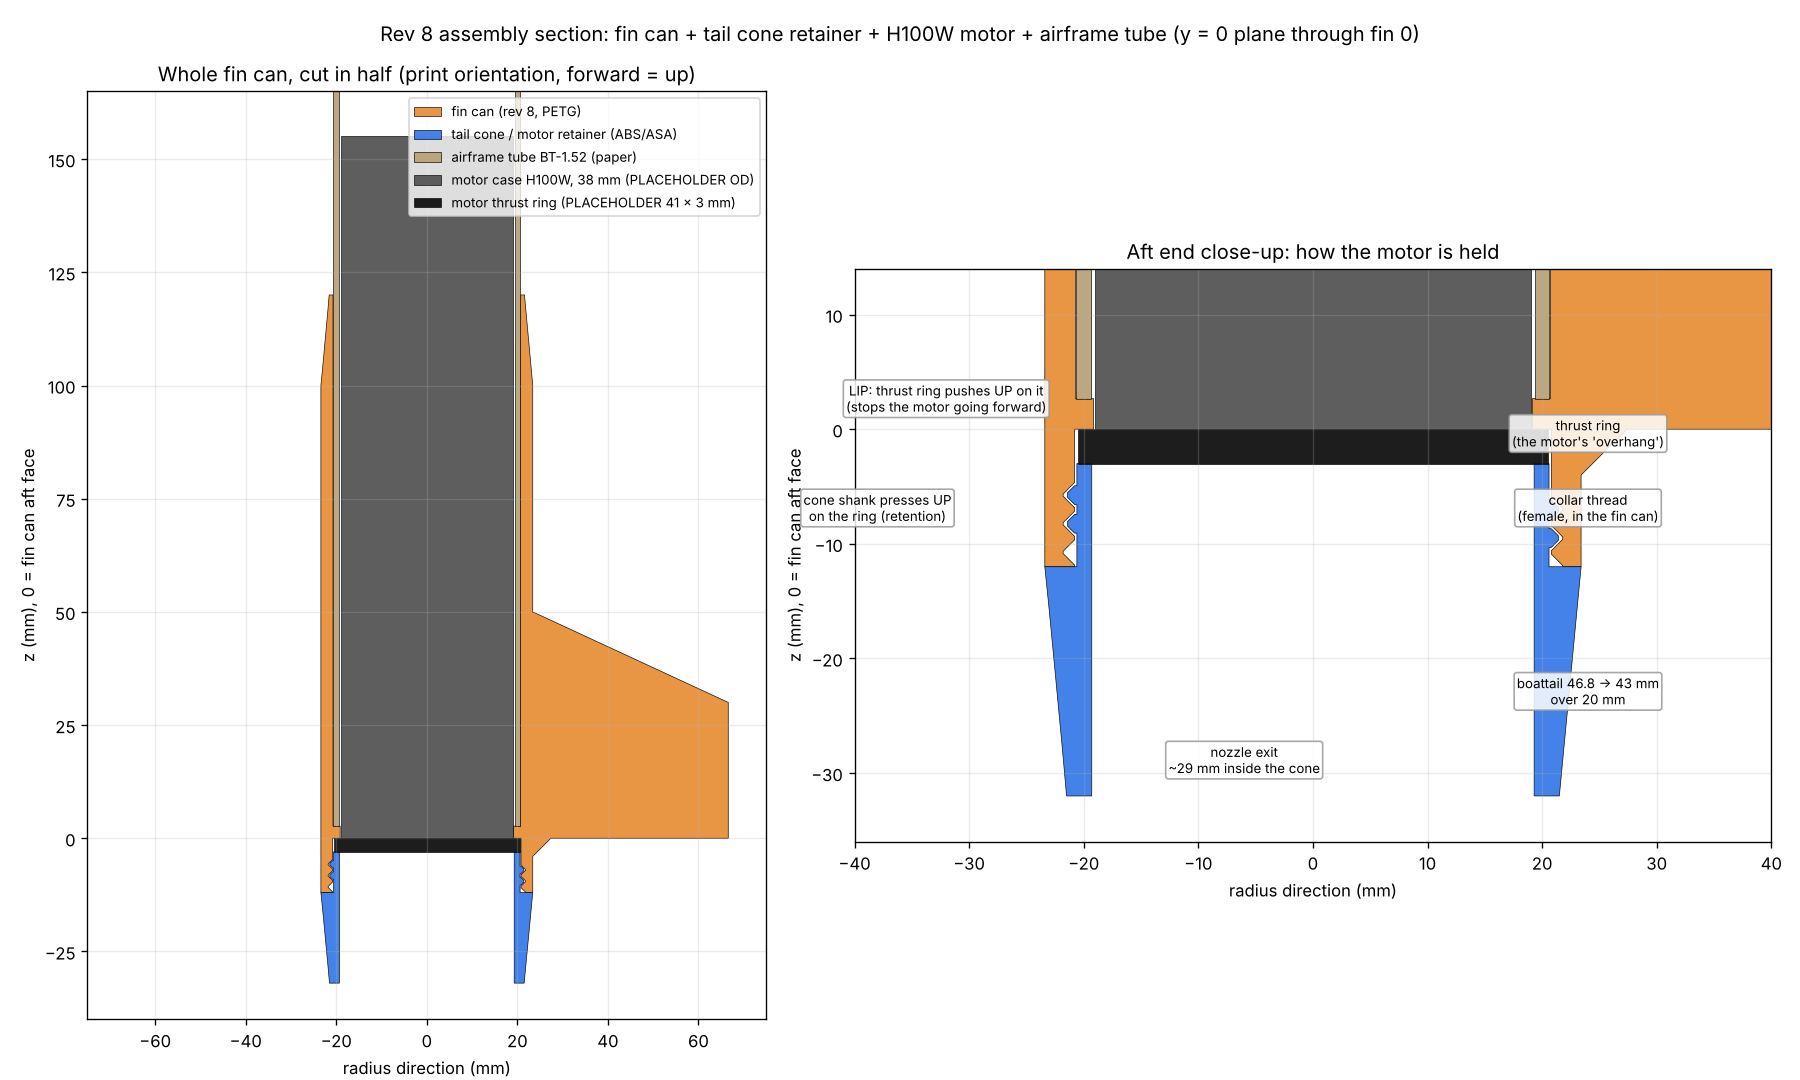
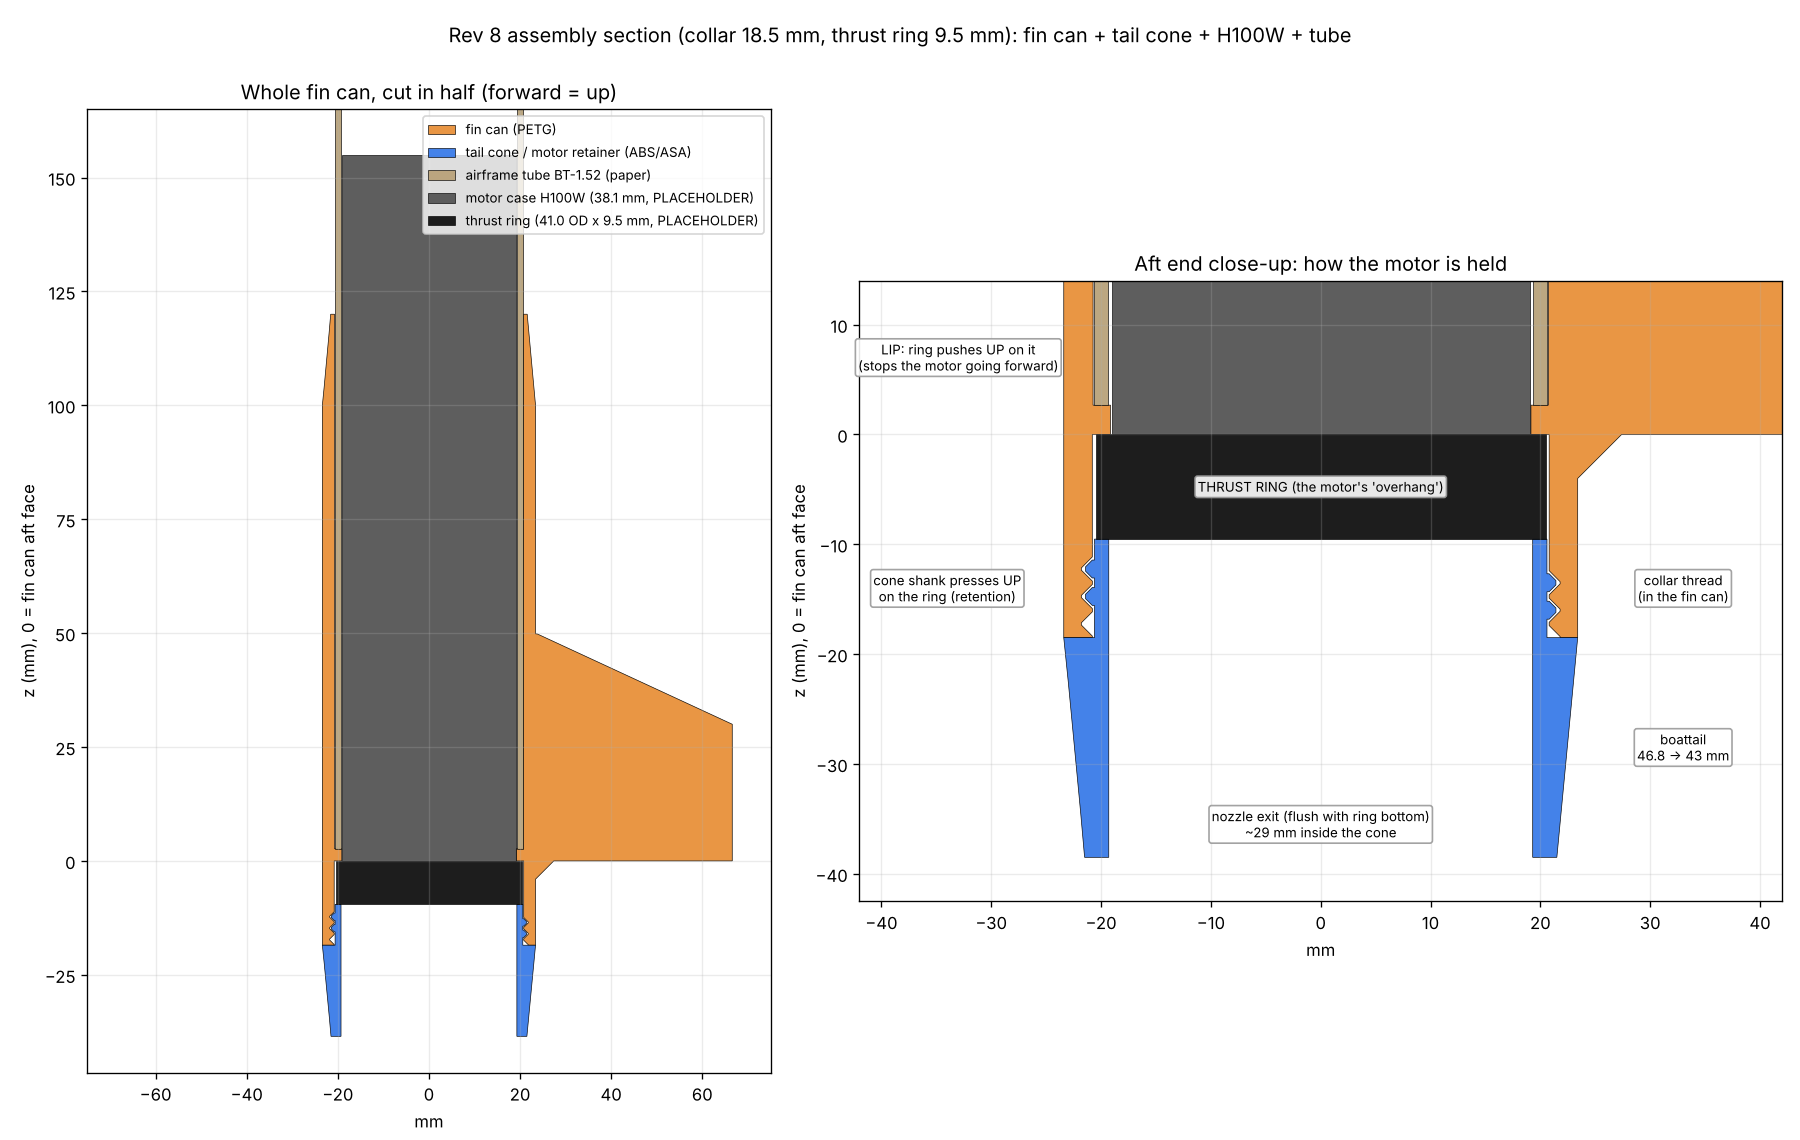
Rev 8: collar 18.5 mm for a 9.5 mm (3/8 in, forum estimate) DMS thrust ring; assembly section tool
Claude-Session: https://claude.ai/code/session_01JbHocCdFPmDsRrA6bRt32a

diff --git a/tools/assembly_section.py b/tools/assembly_section.py
@@ -1,0 +1,68 @@
+"""Half-section drawing of the fin can + tail cone + motor + tube assembly (y = 0 plane through fin 0).
+
+  .venv/bin/python tools/assembly_section.py --rev 8      (after make.py fin_can_md --rev 8)
+Writes out/fin_can_md/rev<N>/fin_can_md_rev<N>_assembly_section.png. Dimensions come from design.yaml via
+parts/fin_can_md.params(); mating solids are the STLs make.py wrote to out/fin_can_md/rev<N>/mates/.
+"""
+import argparse
+import sys
+from pathlib import Path
+
+import matplotlib
+matplotlib.use("Agg")
+import matplotlib.pyplot as plt  # noqa: E402
+import numpy as np  # noqa: E402
+import trimesh  # noqa: E402
+from matplotlib.patches import Polygon  # noqa: E402
+
+ROOT = Path(__file__).resolve().parent.parent
+sys.path.insert(0, str(ROOT))
+from parts import fin_can_md as F  # noqa: E402
+
+ap = argparse.ArgumentParser()
+ap.add_argument("--rev", type=int, required=True)
+a = ap.parse_args()
+p = F.params()
+Lc, ring, Lb = p.get("collar_length_mm", 0), p["thrust_ring_thk_mm"], p.get("boattail_length_mm", 0)
+d = ROOT / "out" / "fin_can_md" / f"rev{a.rev}"
+parts = [("fin can (PETG)", d / f"fin_can_md_rev{a.rev}.stl", "#e8913a"),
+         ("tail cone / motor retainer (ABS/ASA)", d / "mates" / "tail_cone.stl", "#3a7be8"),
+         ("airframe tube BT-1.52 (paper)", d / "mates" / "tube_wall.stl", "#b9a27a"),
+         (f"motor case H100W ({p['motor_case_od_mm']} mm, PLACEHOLDER)", d / "mates" / "motor_case.stl", "#555555"),
+         (f"thrust ring ({p['thrust_ring_od_mm']} OD x {ring:.1f} mm, PLACEHOLDER)", d / "mates" / "motor_thrust_ring.stl",
+          "#111111")]
+
+
+def section(path):
+    if not path.exists():
+        return []
+    s = trimesh.load(path, force="mesh").section(plane_origin=[0, 0, 0], plane_normal=[0, 1, 0])
+    pl, _ = s.to_2D(to_2D=np.array([[1, 0, 0, 0], [0, 0, 1, 0], [0, -1, 0, 0], [0, 0, 0, 1]]))
+    return [(np.array(q.exterior.coords), [np.array(i.coords) for i in q.interiors]) for q in pl.polygons_full]
+
+
+fig, axs = plt.subplots(1, 2, figsize=(15, 9.5), gridspec_kw={"width_ratios": [1, 1.35]})
+for ax, (xl, zl, title) in zip(axs, (((-75, 75), (-Lc - Lb - 8, 165), "Whole fin can, cut in half (forward = up)"),
+                                     ((-42, 42), (-Lc - Lb - 4, 14), "Aft end close-up: how the motor is held"))):
+    for lab, path, col in parts:
+        for k, (e, hs) in enumerate(section(path)):
+            ax.add_patch(Polygon(e, closed=True, fc=col, ec="k", lw=0.4, alpha=0.95, label=lab if k == 0 else None))
+            for h in hs:
+                ax.add_patch(Polygon(h, closed=True, fc="white", ec="k", lw=0.3))
+    ax.set_xlim(*xl); ax.set_ylim(*zl); ax.set_aspect("equal"); ax.grid(alpha=0.25)
+    ax.set_xlabel("mm"); ax.set_ylabel("z (mm), 0 = fin can aft face"); ax.set_title(title)
+ax = axs[1]
+for x, z, s in [(-33, 7, "LIP: ring pushes UP on it\n(stops the motor going forward)"),
+                (0, -ring / 2, "THRUST RING (the motor's 'overhang')"),
+                (33, -(ring + Lc) / 2, "collar thread\n(in the fin can)"),
+                (-34, -(ring + Lc) / 2, "cone shank presses UP\non the ring (retention)"),
+                (33, -Lc - Lb / 2, "boattail\n46.8 → 43 mm"),
+                (0, -Lc - Lb + 3, f"nozzle exit (flush with ring bottom)\n~{Lc + Lb - ring:.0f} mm inside the cone")]:
+    ax.annotate(s, (x, z), fontsize=8, ha="center", va="center",
+                bbox=dict(boxstyle="round,pad=0.2", fc="white", ec="0.6", alpha=0.9))
+axs[0].legend(loc="upper right", fontsize=8)
+fig.suptitle(f"Rev {a.rev} assembly section (collar {Lc} mm, thrust ring {ring:.1f} mm): fin can + tail cone + H100W + tube")
+fig.tight_layout()
+out = d / f"fin_can_md_rev{a.rev}_assembly_section.png"
+fig.savefig(out, dpi=120)
+print(out)

diff --git a/out/fin_can_md/rev8/fin_can_md_rev8_spec.md b/out/fin_can_md/rev8/fin_can_md_rev8_spec.md
@@ -6,19 +6,19 @@
 ## Verify checks
 | # | Check | Result | Detail |
 |---|---|---|---|
-| 1 | mesh integrity | PASS | watertight=True, winding_consistent=True, volume=93870.0 mm3, bodies=1 |
-| 2 | mass | FAIL | target 90.0 g (±5 %); reachable 95.4 g (0 %) – 119.2 g (100 %); infill to hit target = -22.5 % |
+| 1 | mesh integrity | PASS | watertight=True, winding_consistent=True, volume=96215.1 mm3, bodies=1 |
+| 2 | mass | FAIL | target 90.0 g (±5 %); reachable 98.4 g (0 %) – 122.3 g (100 %); infill to hit target = -35.3 % |
 | 3 | mating interference | PASS | tube_wall: 0.000 mm3, motor_case: 0.000 mm3, motor_thrust_ring: 0.000 mm3, tail_cone: 0.000 mm3 |
 | 4 | renders | PASS | written: fin_can_md_rev8_iso.png, fin_can_md_rev8_front.png, fin_can_md_rev8_section.png — VISUAL REVIEW REQUIRED |
-| 5 | build volume | PASS | extents X 102.6 / Y 118.4 / Z 132.0 mm vs limit 256/256/256 |
+| 5 | build volume | PASS | extents X 102.6 / Y 118.4 / Z 138.5 mm vs limit 256/256/256 |
 
 ## Mass (walls + infill model)
 - Wall band 2.67 mm · top 5 / bottom 3 layers of 0.2 mm
-- Solid (walls/skins) 75.09 cm³ · infill region 18.77 cm³ · mesh volume 93.87 cm³
-- Mass at 0 % / 100 % infill: 95.4 g / 119.2 g · target 90.0 g · infill needed: -22.5 %
+- Solid (walls/skins) 77.50 cm³ · infill region 18.78 cm³ · mesh volume 96.22 cm³
+- Mass at 0 % / 100 % infill: 98.4 g / 122.3 g · target 90.0 g · infill needed: -35.3 %
 
 ## Print orientation
-Aft face (lip) DOWN on the bed, axis vertical. No supports: lip and sleeve are vertical walls, fins shrink going up, the forward fairing narrows going up.
+Aft face (lip) DOWN on the bed, axis vertical. No supports: lip and sleeve are vertical walls, fins shrink going up, the forward fairing narrows going up. REV 8 (tail_cone): the collar is on the bed and the fins' blunt trailing edges (1-8 mm wide) hang 12 mm above it: add small supports under the three fin TEs only (paint-on / tree, build plate only).
 
 ## Loads vs. layers
 - Motor thrust: the thrust ring pushes UP (+Z) on the lip's underside, and the lip pushes the tube end forward. The layers are pressed together (compression across layers). Good direction.
@@ -42,7 +42,7 @@ Aft face (lip) DOWN on the bed, axis vertical. No supports: lip and sleeve are v
 | `lip_bore_d_mm` | 38.28 | derived/shop |  |
 | `motor_length_mm` | 155 | CITED | motor agent 2026-11-21 (38 x 155 mm; ThrustCurve snippet said 153) — measure |
 | `thrust_ring_od_mm` | 41 | PLACEHOLDER | not published yet (motor agent researching); must be > lip bore to bear |
-| `thrust_ring_thk_mm` | 3 | PLACEHOLDER | not published; mating check only |
+| `thrust_ring_thk_mm` | 9.525 | PLACEHOLDER | 3/8 in: Rocketry Forum estimate for 38 mm DMS thrust rings (no official AeroTech drawing found, 2026-11-22); owner photo agrees (long black aft band). Nozzle reported flush with the ring bottom. MEASURE |
 | `fin_count` | 3 | derived/shop |  |
 | `root_chord_mm` | 50 | derived/shop |  |
 | `tip_chord_mm` | 30 | derived/shop |  |
@@ -63,7 +63,7 @@ Aft face (lip) DOWN on the bed, axis vertical. No supports: lip and sleeve are v
 | `boss_fairing_length_mm` | 20 | PROPOSED |  |
 | `target_mass_g` | 90 | OWNER | owner 2026-11-21: Bambu Studio slicer 90 g for REV 7 at 25 % GYROID infill (rev 6 was 84.83 g; rev 5 80 g) |
 | `tail_cone` | True | OWNER | rev 8: threaded collar behind the aft face + separate tail cone (parts/tail_cone.py) |
-| `collar_length_mm` | 12 | PROPOSED | rev 8: threaded collar below the aft face; holds the 3 mm thrust ring + ~6.5 mm of thread |
+| `collar_length_mm` | 18.5 | PROPOSED | rev 8 (updated 2026-11-22): 9.5 mm thrust ring + 6.5 mm thread + 2.5 mm run-out. Was 12 (3 mm ring assumption) -> no thread left with a 9.5 mm ring |
 | `collar_bore_d_mm` | 41.6 | PROPOSED | rev 8: clears the 41.0 mm thrust ring (PLACEHOLDER) by 0.3/side; thread minor dia; wall behind the groove 1.6 mm |
 | `boattail_length_mm` | 20 | OWNER | owner 2026-11-22: 20 mm taper aft of the collar |
 | `boattail_end_od_mm` | 43 | PROPOSED | 46.8 -> 43.0 over 20 mm = 5.4 deg half-angle (attached-flow boattail range 5-10 deg) |
@@ -77,7 +77,7 @@ Aft face (lip) DOWN on the bed, axis vertical. No supports: lip and sleeve are v
 ## Not print-ready until resolved
 - `motor_case_od_mm`: 1.500 in nominal from AeroTech I500T (different 38 mm DMS) page, via motor agent; MEASURE the H100W
 - `thrust_ring_od_mm`: not published yet (motor agent researching); must be > lip bore to bear
-- `thrust_ring_thk_mm`: not published; mating check only
+- `thrust_ring_thk_mm`: 3/8 in: Rocketry Forum estimate for 38 mm DMS thrust rings (no official AeroTech drawing found, 2026-11-22); owner photo agrees (long black aft band). Nozzle reported flush with the ring bottom. MEASURE
 - `tube_od_mm`: BT-1.52 OD nominal; MEASURE — sets the sleeve bore
 
 ## Extra outputs

diff --git a/out/tail_cone/rev8/tail_cone_rev8_spec.md b/out/tail_cone/rev8/tail_cone_rev8_spec.md
@@ -6,7 +6,7 @@
 ## Verify checks
 | # | Check | Result | Detail |
 |---|---|---|---|
-| 1 | mesh integrity | PASS | watertight=True, winding_consistent=True, volume=9914.6 mm3, bodies=1 |
+| 1 | mesh integrity | PASS | watertight=True, winding_consistent=True, volume=9909.2 mm3, bodies=1 |
 | 2 | mass | FAIL | no target mass declared |
 | 3 | mating interference | PASS | tube_wall: 0.000 mm3, motor_case: 0.000 mm3, motor_thrust_ring: 0.000 mm3, fin_can: 0.000 mm3 |
 | 4 | renders | PASS | written: tail_cone_rev8_iso.png, tail_cone_rev8_front.png, tail_cone_rev8_section.png — VISUAL REVIEW REQUIRED |
@@ -41,7 +41,7 @@ Narrow aft end on the bed, shank up. No supports: the outer taper leans 5.4 deg 
 | `lip_bore_d_mm` | 38.28 | derived/shop |  |
 | `motor_length_mm` | 155 | CITED | motor agent 2026-11-21 (38 x 155 mm; ThrustCurve snippet said 153) — measure |
 | `thrust_ring_od_mm` | 41 | PLACEHOLDER | not published yet (motor agent researching); must be > lip bore to bear |
-| `thrust_ring_thk_mm` | 3 | PLACEHOLDER | not published; mating check only |
+| `thrust_ring_thk_mm` | 9.525 | PLACEHOLDER | 3/8 in: Rocketry Forum estimate for 38 mm DMS thrust rings (no official AeroTech drawing found, 2026-11-22); owner photo agrees (long black aft band). Nozzle reported flush with the ring bottom. MEASURE |
 | `fin_count` | 3 | derived/shop |  |
 | `root_chord_mm` | 50 | derived/shop |  |
 | `tip_chord_mm` | 30 | derived/shop |  |
@@ -62,7 +62,7 @@ Narrow aft end on the bed, shank up. No supports: the outer taper leans 5.4 deg 
 | `boss_fairing_length_mm` | 20 | PROPOSED |  |
 | `target_mass_g` | None | OWNER | owner 2026-11-21: Bambu Studio slicer 90 g for REV 7 at 25 % GYROID infill (rev 6 was 84.83 g; rev 5 80 g) |
 | `tail_cone` | True | OWNER | rev 8: threaded collar behind the aft face + separate tail cone (parts/tail_cone.py) |
-| `collar_length_mm` | 12 | PROPOSED | rev 8: threaded collar below the aft face; holds the 3 mm thrust ring + ~6.5 mm of thread |
+| `collar_length_mm` | 18.5 | PROPOSED | rev 8 (updated 2026-11-22): 9.5 mm thrust ring + 6.5 mm thread + 2.5 mm run-out. Was 12 (3 mm ring assumption) -> no thread left with a 9.5 mm ring |
 | `collar_bore_d_mm` | 41.6 | PROPOSED | rev 8: clears the 41.0 mm thrust ring (PLACEHOLDER) by 0.3/side; thread minor dia; wall behind the groove 1.6 mm |
 | `boattail_length_mm` | 20 | OWNER | owner 2026-11-22: 20 mm taper aft of the collar |
 | `boattail_end_od_mm` | 43 | PROPOSED | 46.8 -> 43.0 over 20 mm = 5.4 deg half-angle (attached-flow boattail range 5-10 deg) |
@@ -76,5 +76,5 @@ Narrow aft end on the bed, shank up. No supports: the outer taper leans 5.4 deg 
 ## Not print-ready until resolved
 - `motor_case_od_mm`: 1.500 in nominal from AeroTech I500T (different 38 mm DMS) page, via motor agent; MEASURE the H100W
 - `thrust_ring_od_mm`: not published yet (motor agent researching); must be > lip bore to bear
-- `thrust_ring_thk_mm`: not published; mating check only
+- `thrust_ring_thk_mm`: 3/8 in: Rocketry Forum estimate for 38 mm DMS thrust rings (no official AeroTech drawing found, 2026-11-22); owner photo agrees (long black aft band). Nozzle reported flush with the ring bottom. MEASURE
 - `tube_od_mm`: BT-1.52 OD nominal; MEASURE — sets the sleeve bore
